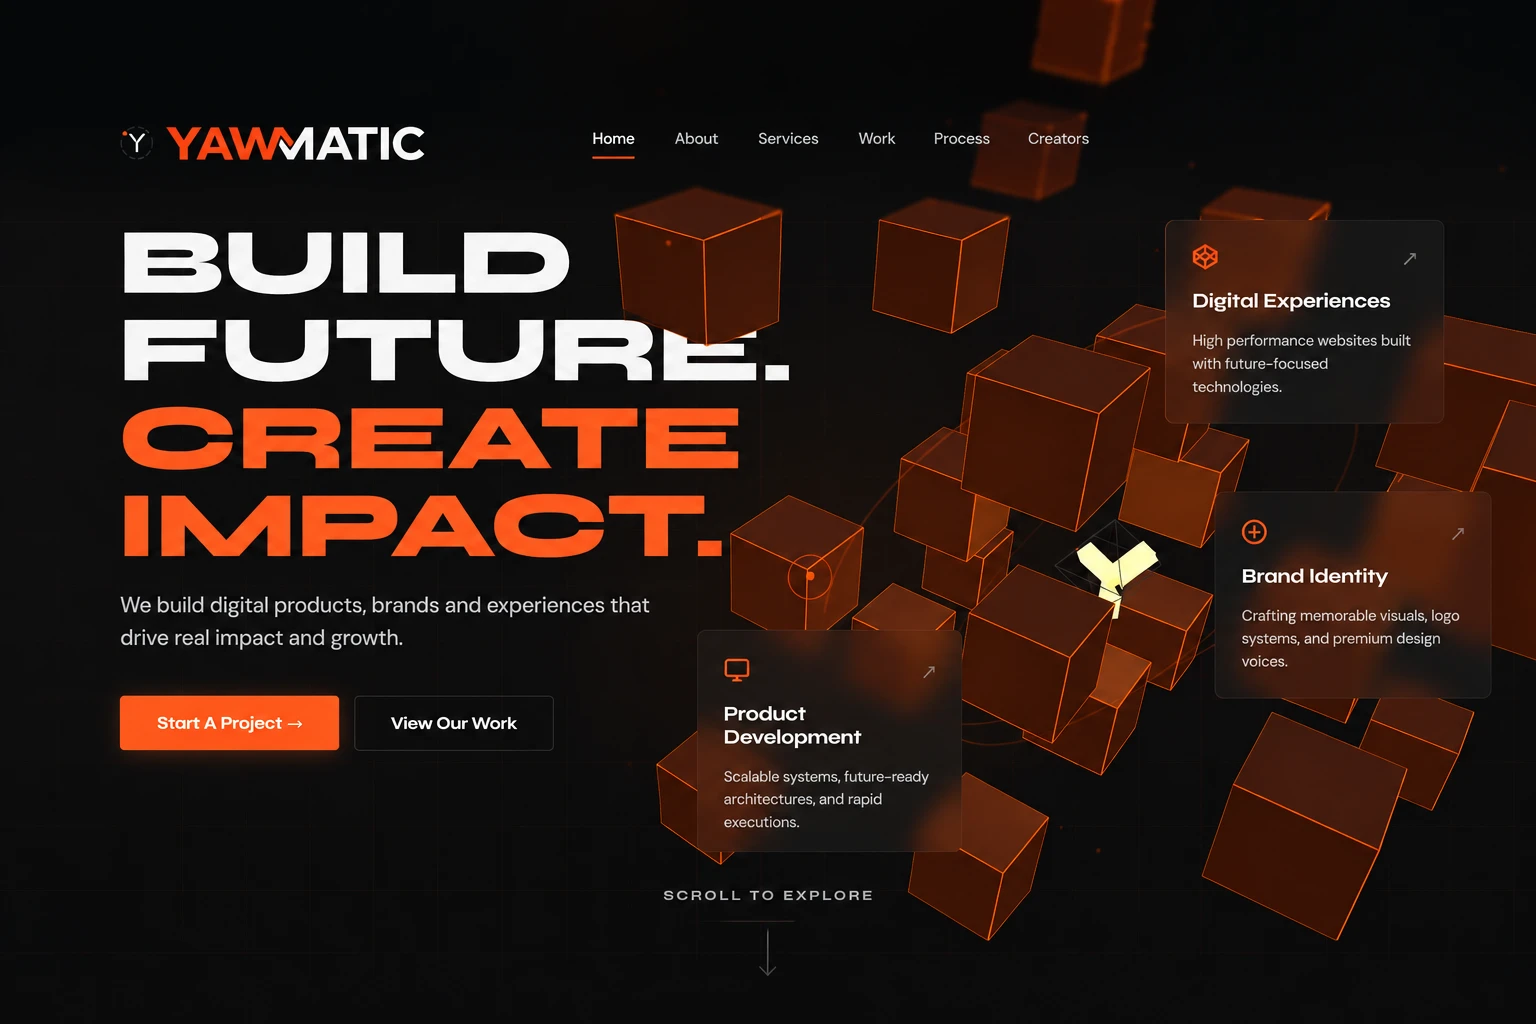
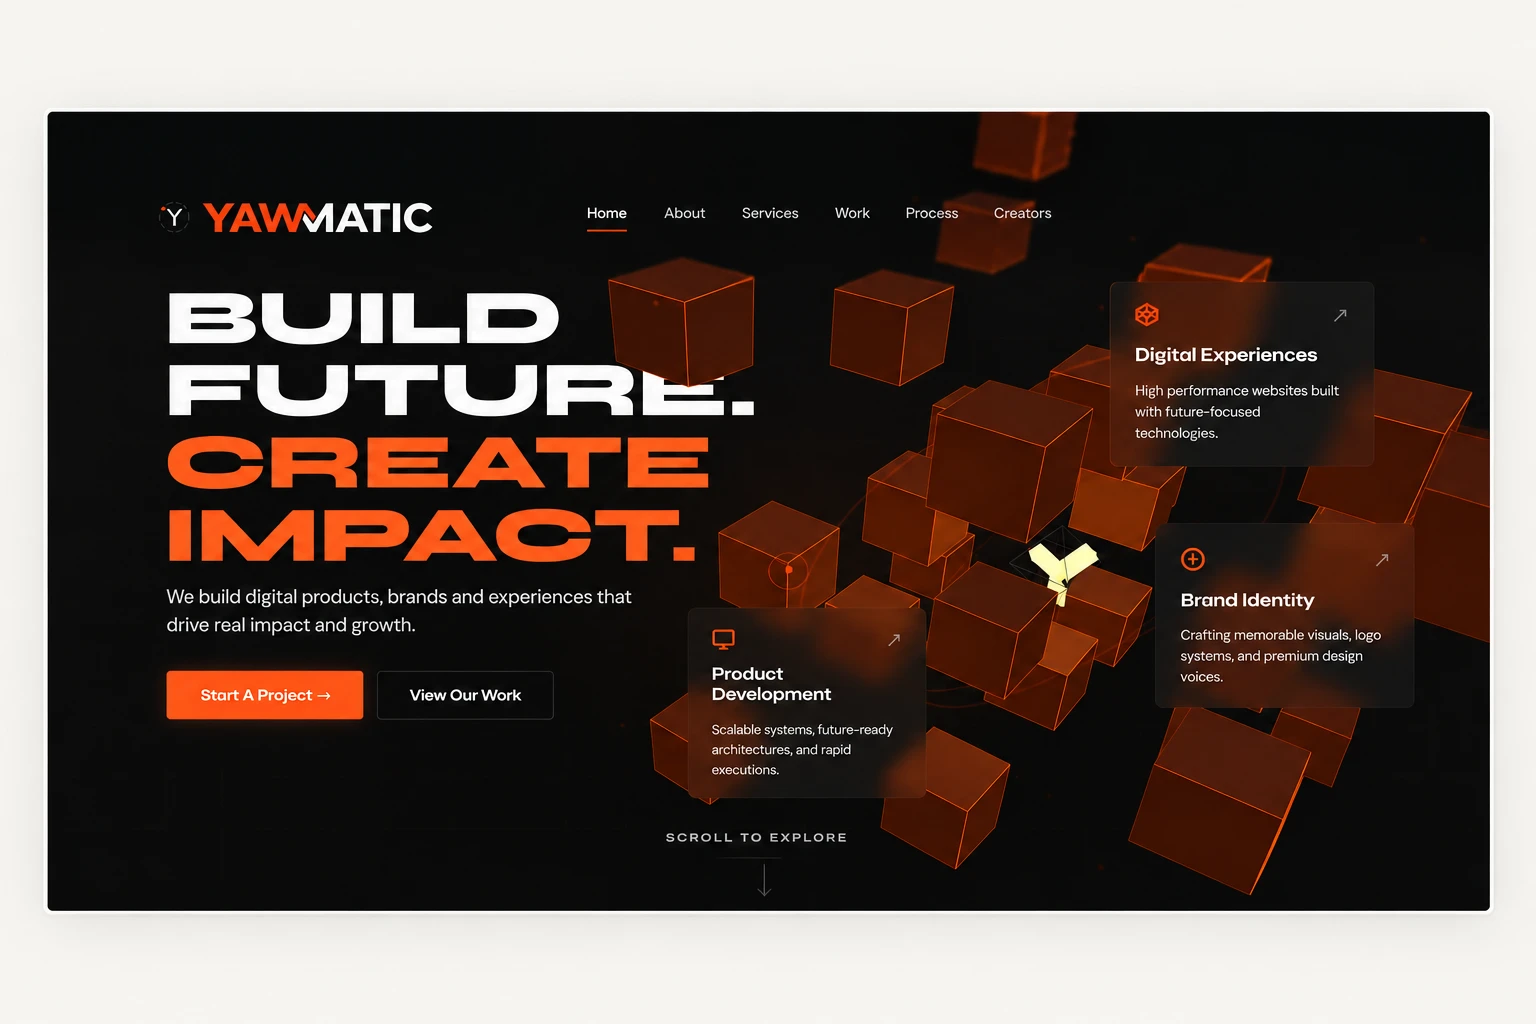
feat: update YAWMATIC screenshot and add YAWMATIC Collective to Selected Work showcase

diff --git a/src/data/projects.ts b/src/data/projects.ts
@@ -114,6 +114,7 @@ export const PROJECTS: Project[] = [
     longDescription: 'YAWMATIC Collective functions as a supporting platform within the YAWMATIC ecosystem. It features user authentication, private database storage, structured application UI, and responsive interaction workflows.',
     role: ['Product Design', 'UI/UX', 'Full-Stack Development', 'Database Schema'],
     techStack: ['React', 'TypeScript', 'Vite', 'Supabase', 'PostgreSQL', 'Supabase Auth', 'Supabase Storage', 'Git', 'GitHub', 'Vercel'],
-    isPrimary: false
+    isPrimary: true,
+    imageSrc: '/assets/projects/yawmatic-collective.webp'
   }
 ];
